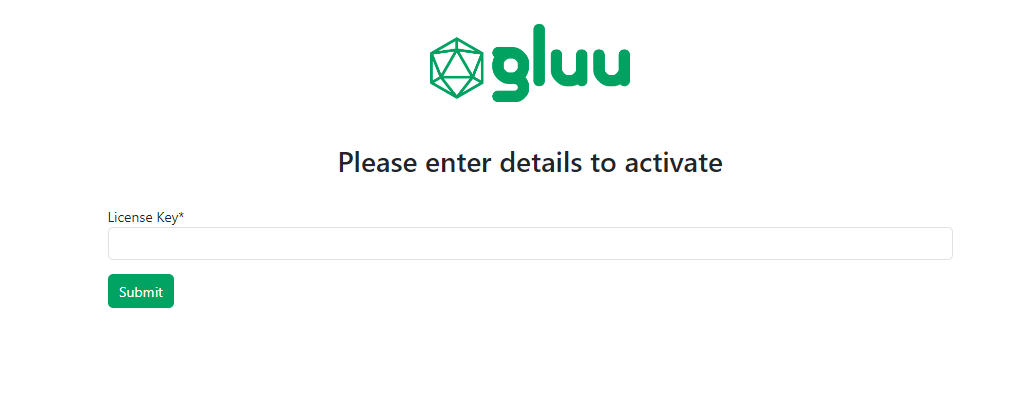
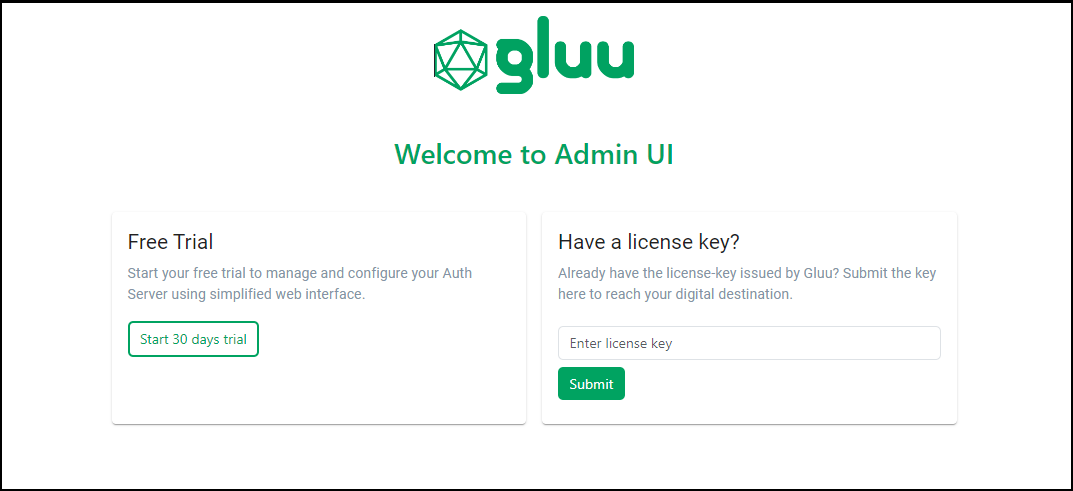
feat: documentation of admin-ui #1063

diff --git a/docs/admin/admin-ui/admin-contents.md b/docs/admin/admin-ui/admin-contents.md
@@ -45,6 +45,19 @@ The below table lists the Permissions for access control of the features:
 |https://jans.io/oauth/config/smtp.delete|Remove SMTP configuration|
 |https://jans.io/oauth/config/logging.readonly|View Auth server log configuration|
 |https://jans.io/oauth/config/logging.write|Edit Auth server log configuration|
+|https://jans.io/oauth/config/database/ldap.readonly|View LDAP persistence configuration|
+|https://jans.io/oauth/config/database/ldap.write|Edit LDAP persistence configuration|
+|https://jans.io/oauth/config/database/ldap.delete|Delete LDAP persistence configuration|
+|https://jans.io/oauth/config/jwks.readonly|View JWKS|
+|https://jans.io/oauth/jans-auth-server/config/adminui/user/role.readonly|View Admin UI Roles|
+|https://jans.io/oauth/jans-auth-server/config/adminui/user/role.write|Edit Admin UI Roles|
+|https://jans.io/oauth/jans-auth-server/config/adminui/user/role.delete|Delete Admin UI Roles|
+|https://jans.io/oauth/jans-auth-server/config/adminui/user/permission.readonly|View Admin UI Permissions|
+|https://jans.io/oauth/jans-auth-server/config/adminui/user/permission.write|Edit Admin UI Permissions|
+|https://jans.io/oauth/jans-auth-server/config/adminui/user/permission.delete|Delete Admin UI Permissions|
+|https://jans.io/oauth/jans-auth-server/config/adminui/user/rolePermissionMapping.readonly|View Role-Permission Mapping|
+|https://jans.io/oauth/jans-auth-server/config/adminui/user/rolePermissionMapping.write|Edit Role-Permission Mapping|
+|https://jans.io/oauth/jans-auth-server/config/adminui/user/rolePermissionMapping.delete|Delete Role-Permission Mapping|
 
 ## Custom Scripts
 

diff --git a/docs/admin/admin-ui/auth-server-contents.md b/docs/admin/admin-ui/auth-server-contents.md
@@ -1,6 +1,6 @@
 # Overview
 
-The Auth Server menu covers the following important sub-menus to configure and manage Auth server.
+The **Auth Server** menu covers the following important sub-menus to configure and manage Auth server.
 - Sessions
 - Server configuration
 - Keys
@@ -12,7 +12,7 @@ The Auth Server menu covers the following important sub-menus to configure and m
 
 ## Sessions
 
-The Janssen Server OP stores user session data in persistence. This screen lists the active session details and the administrator can revoke the sessions of the selected user.
+The Janssen Auth Server stores user session data in persistence. This screen lists the active session details and the administrator can revoke the sessions of the selected user.
 
 ![image](../../assets/admin-ui/sessions.png)
 
@@ -44,7 +44,7 @@ The logged-in user with appropriate permissions can view, register, edit and del
 
 ![image](../../assets/admin-ui/client.png)
 
-The Client Metadatas are as follows:
+The Client Metadata are as follows:
 
 |Client fields|Description|
 |-------------|-----------|

diff --git a/docs/admin/admin-ui/introduction.md b/docs/admin/admin-ui/introduction.md
@@ -12,7 +12,11 @@ During installation, we need to provide a Software Statement Assertion (SSA) whi
 
 ## Flex License
 
-After installation Admin UI can be accessed on `https://hostname/admin` (the `hostname` is provided during setup). The web interface will ask for a valid `license key` issue from Gluu. The user will need to enter a valid license key and submit it. This is a one-time activity and the application will not ask for license-key again (when accessing Admin UI) until it is expired.
+After installation Admin UI can be accessed on `https://hostname/admin` (the `hostname` is provided during setup). The web interface can be accessed only after submitting a valid `license key` issue from Gluu.
+
+User can generate a 30 days trial license using this interface. To enjoy long time uninterrupted access to Admin UI get a flex license-key issued from Gluu.     
+
+The application will not ask for license-key again (when accessing Admin UI) until it is expired.
 
 ![image](../../assets/admin-ui/license-key-submit.png)
 
